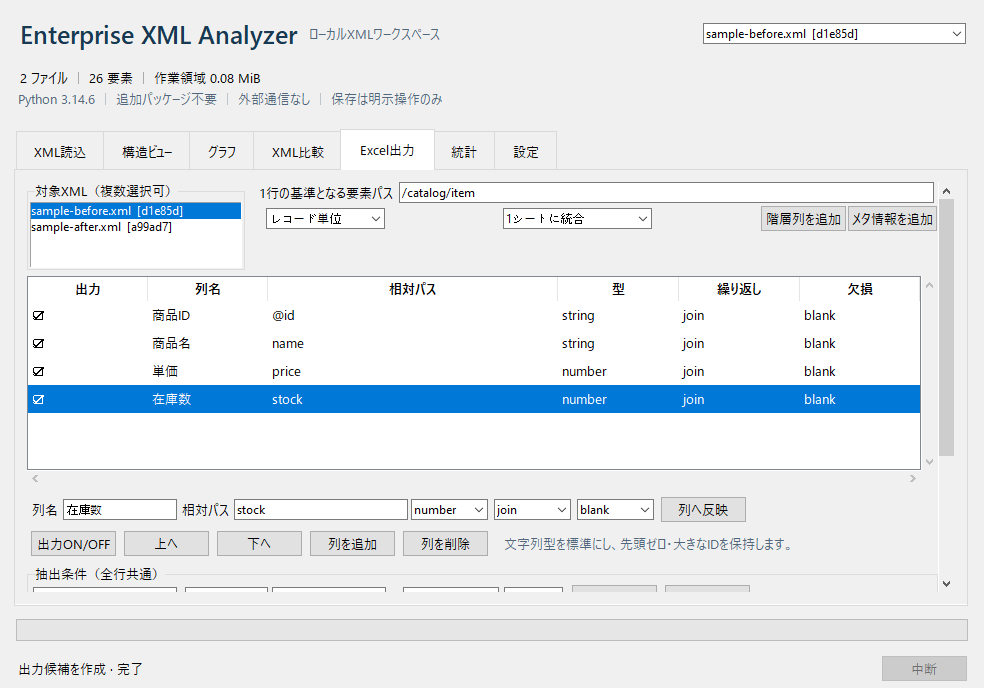
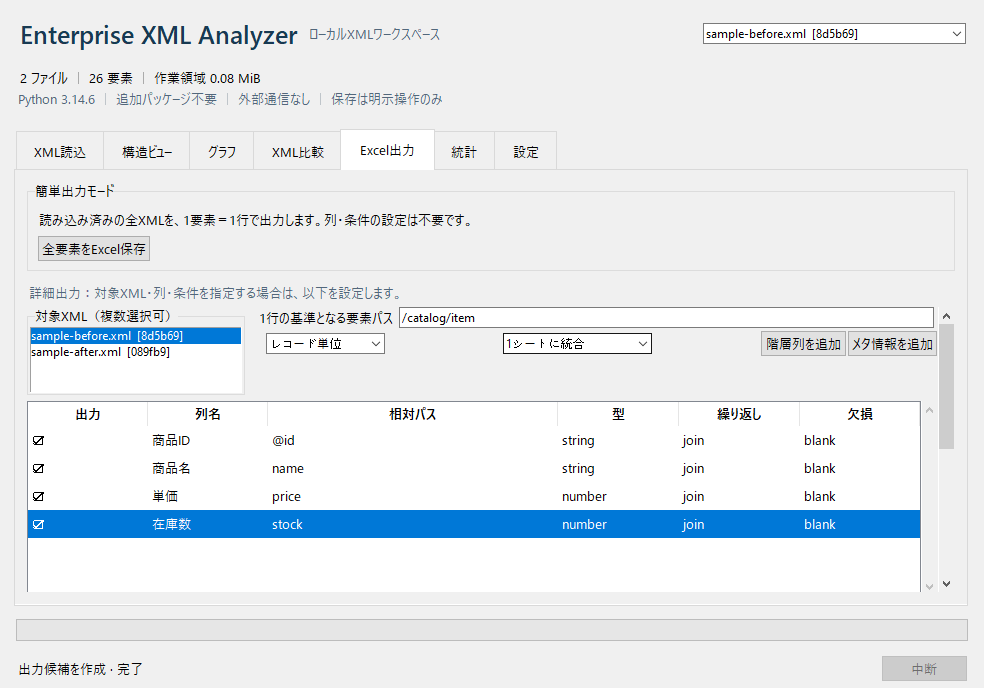
docs: document and verify simple export with current Windows screens

diff --git a/docs/python-user-guide/procedure-guide.html b/docs/python-user-guide/procedure-guide.html
@@ -89,12 +89,13 @@
     <section id="export" class="content-section"><div class="section-heading"><span class="section-number">09</span><div><p class="section-kicker">Excel Export</p><h2>必要な項目をExcelへ出力する</h2></div></div>
       <h3 id="simple-export">設定なしで全部出力する：簡単出力モード</h3>
       <ol class="numbered-steps"><li><div><strong>必要なXMLをすべて読み込みます。</strong><p>「XML読込」の一覧にある全ファイルが対象です。画面右上や詳細出力の選択状態、列や条件の設定には影響されません。</p></div></li><li><div><strong>「全要素をExcel保存」を押し、保存先を選びます。</strong><p>「XML読込」タブのボタン、または「Excel出力」タブ上部の「簡単出力モード」から実行できます。列やパスを設定する必要はありません。</p></div></li><li><div><strong>完了表示とExcelの内容を確認します。</strong><p>練習用XMLを2つとも読み込んだ場合は、親・空要素も含む全26要素を26行で保存します。詳細出力の「商品1件を1行」にする一覧とは行の単位が異なります。</p></div></li></ol>
-      <p>「全要素」シートには元ファイル、ファイルID、要素番号、親要素番号、階層、要素名、名前空間、要素パス、属性(JSON)、テキスト、分割番号の11列が並びます。ID・数値に見えるXML値も文字列として保持するため、先頭ゼロが残ります。階層の先頭は0です。</p>
+      <p>「全要素」シートには元ファイル、ファイルID、要素番号、親要素番号、階層、要素名、名前空間、要素パス、属性(JSON)、テキスト、分割番号の11列が並びます。ID・数値に見えるXML値も文字列として保持するため、先頭ゼロが残ります。階層の先頭は0です。要素番号は内部IDのため欠番がありますが、出力の欠落ではありません。</p>
       <p>テキストは要素の直下にある文字列・CDATAです。子要素の値はその子の行に出力します。コメントとPIは出力対象の「要素」に含めません。1セルに収まらない値は続きの行へ分割し、切り捨てません。同じファイルIDと要素番号を分割番号順に並べ、要素名・名前空間・パス・属性・テキストの各列を連結すると元の値になります。先頭5列は続きの行にも繰り返します。</p>
       <p class="small-note">1シートのデータ行上限で自動的にシートを分けます。合計200万行を超える場合は停止し、既存の保存先ファイルを保持します。対象を小さくする場合は、読み込み一覧から不要なXMLを外して再実行してください。</p>
+      <figure class="screenshot"><button class="shot-zoom" type="button" aria-label="簡単出力モードの画面を拡大"><img src="images/11-simple-export.png" alt="Excel出力タブ上部の簡単出力モード。全要素をExcel保存ボタンと、2ファイル26要素26行の完了表示。" width="984" height="688" loading="lazy"></button><figcaption>簡単出力の画面｜列を設定せずに、練習用XML2ファイルの全26要素を保存できました。</figcaption></figure>
       <h3>必要な列を選びたい場合：詳細出力</h3>
       <h3>① 「1行」の単位を選ぶ</h3><ol class="numbered-steps"><li><div><strong>「構造ビュー」へ戻り、右上を変更前XMLにします。</strong><p>検索後は <code>price</code> などが選ばれていることがあります。左のツリーから商品1件を表す <code>item</code> を選び直します。</p></div></li><li><div><strong>「この要素を出力の1行にする」を押します。</strong><p>「Excel出力」へ移動し、「1行の基準となる要素パス」が <code>/catalog/item</code> になります。1つの <code>item</code> がExcelの1行になるため、変更前XMLから3行を出力します。</p></div></li><li><div><strong>左上「対象XML」で変更前だけを選びます。</strong><p>初期状態では複数のXMLが選ばれていることがあります。この練習では <code>sample-before.xml</code> を通常クリックして1つだけ選択します。複数選択はCtrlキーで操作します。</p></div></li></ol>
-      <h3>② 列名と型を整える</h3><p>候補の列は自動で作られます。表の行をクリックして、その下の「列名」と型を変更し、<strong>必ず「列へ反映」</strong>を押します。次の4列を順に設定してください。</p>
+      <h3>② 列名と型を整える</h3><p>候補の列は自動で作られます。表の行をクリックして、その下の「列名」と型を変更し、<strong>必ず「列へ反映」</strong>を押します。次の4列を順に設定してください。編集欄が見えない場合は、右端の縦スクロールバーで下へ移動します。</p>
       <div class="table-wrap"><table><caption>練習で使う列設定</caption><thead><tr><th>相対パス</th><th>列名</th><th>型</th><th>理由</th></tr></thead><tbody><tr><td><code>@id</code></td><td>商品ID</td><td><code>string</code></td><td>001の先頭ゼロを残します。</td></tr><tr><td><code>name</code></td><td>商品名</td><td><code>string</code></td><td>文字列として保存します。</td></tr><tr><td><code>price</code></td><td>単価</td><td><code>number</code></td><td>Excelで集計できる数値として保存します。</td></tr><tr><td><code>stock</code></td><td>在庫数</td><td><code>number</code></td><td>Excelで集計できる数値として保存します。</td></tr></tbody></table></div>
       <figure class="screenshot"><button class="shot-zoom" type="button" aria-label="Excel出力の列設定画面を拡大"><img src="images/07-columns.png" alt="Excel出力タブ。対象XMLは変更前のみ、基準パスはcatalog/item。商品ID、商品名、単価、在庫数の4列が設定されている。" width="984" height="688" loading="lazy"></button><figcaption>画面7｜列を選ぶ → 下で編集する → 「列へ反映」。IDは文字列のままにします。</figcaption></figure>
       <p>不要な列は「出力ON/OFF」で外し、「上へ」「下へ」で順序を変えられます。繰り返しの初期値 <code>join</code> は複数値を1セルへ結合します。<code>first</code> は最初だけ、<code>rows</code> は行へ展開、<code>sheet</code> は子シートです。初回は初期値のままで構いません。</p>
@@ -116,7 +117,7 @@
 
     <section id="verification" class="content-section"><div class="section-heading"><span class="section-number">11</span><div><p class="section-kicker">Verification</p><h2>完了確認</h2></div></div>
       <p>練習が終わったら、次の項目を確認してください。チェック状態はこのページを再読込するとリセットされます。</p><div class="checklist-grid"><article><h3>画面・結果</h3><label><input type="checkbox"> EXEから起動でき、XMLを2ファイル読み込めた</label><label><input type="checkbox"> 構造ビューでitemとidを確認できた</label><label><input type="checkbox"> 比較で単価と在庫数の2箇所の変更を確認できた</label><label><input type="checkbox"> プレビューで変更前の3行を確認できた</label></article><article><h3>保存・終了</h3><label><input type="checkbox"> XLSXを保存し、実際に開いて3行と値を確認した</label><label><input type="checkbox"> 商品IDの001など先頭ゼロが残っている</label><label><input type="checkbox"> 必要な設定JSON・作業ファイルを保存した</label><label><input type="checkbox"> アプリを通常の手順で終了した</label></article></div>
-      <p class="small-note">アプリはWindows Server 2022で機能・GUIテスト36件と同梱EXEの起動を検証済みです。Windows版Microsoft Excelそのものでの修復警告・再保存は未確認のため、利用環境で必ず出力を確認してください。</p>
+      <p class="small-note">アプリはWindows Server 2022で機能・GUIテスト42件と同梱EXEの起動を検証済みです。Windows版Microsoft Excelそのものでの修復警告・再保存は未確認のため、利用環境で必ず出力を確認してください。</p>
     </section>
 
     <section id="troubleshooting" class="content-section"><div class="section-heading"><span class="section-number">12</span><div><p class="section-kicker">Troubleshooting</p><h2>困ったとき</h2></div></div>
@@ -126,7 +127,7 @@
         <details><summary>Windowsの警告や会社の管理機能で実行が止まる</summary><div><p>EXEは未署名です。セキュリティ機能を無効にせず、会社の承認手順に従ってください。管理者権限での実行を標準手順にはしません。</p></div></details>
         <details><summary>XMLを読み込めない／XML_PARSE・DTD・LIMITなどが表示される</summary><div><p>XMLの構文・文字コード・ファイルの読み取り権限を確認します。UTF-8／UTF-16に対応します。DTD・外部実体を含むXMLは受け付けません。深さ256や単一テキスト1Mi文字等の上限に達した場合は、元データの担当者へ相談してください。上限を避けるための無断編集はしないでください。</p></div></details>
         <details><summary>比較できない／変更が想定と違う／「曖昧」が出る</summary><div><p>AとBに異なるファイルを選んでいるか確認します。初回は「完全比較」で試します。キー属性の重複や不足、空白・順序・コメントのオプションでも結果が変わります。画面の設定と対象ファイル名を控え、実際の要素と詳細を確認してください。</p></div></details>
-        <details><summary>Excelの行が多すぎる／少ない／空欄になる</summary><div><p>対象XMLの選択、1行の基準パス、列の相対パス、出力ON/OFF、抽出条件を確認します。練習では変更前だけを選び、<code>/catalog/item</code> を基準にします。パスや列設定は対象XMLの構造に合っている必要があります。</p></div></details>
+        <details><summary>Excelの行が多すぎる／少ない／空欄になる</summary><div><p>簡単出力は全XMLの全要素を対象にするため、練習用XML2つでは26行です。商品1件を1行にしたい場合は詳細出力を使います。</p><p>対象XMLの選択、1行の基準パス、列の相対パス、出力ON/OFF、抽出条件を確認します。練習では変更前だけを選び、<code>/catalog/item</code> を基準にします。パスや列設定は対象XMLの構造に合っている必要があります。</p></div></details>
         <details><summary>列を編集したのに結果へ反映されない</summary><div><p>表の該当行を選んで編集し、「列へ反映」を押してから再度プレビューします。プレビューを実行する前の表示は自動更新されません。</p></div></details>
         <details><summary>「XLSX保存」など下のボタンが見えない</summary><div><p>ウインドウを最大化し、「Excel出力」の右端の縦スクロールバーを下へ移動します。横幅が足りない場合も最大化して操作してください。</p></div></details>
         <details><summary>保存できない／disk I/O error／処理が遅い</summary><div><p>空き容量、保存先への書き込み権限、出力ファイルをExcelで開いたままにしていないかを確認します。大きなXMLは一時作業領域も使用します。共有フォルダで失敗する場合は、許可されたローカルフォルダへの保存を試し、会社の担当者へ権限を確認してください。</p></div></details>

diff --git a/tests_python/test_engine.py b/tests_python/test_engine.py
@@ -62,7 +62,7 @@ class EngineTests(unittest.TestCase):
         text = "a" * 32766 + "😀" + "b" * 40000
         attribute = "😀" * 20000
         namespace = "u" * 40000
-        source = self.parse(f'<r xmlns:p="{namespace}"><p:n id="001" a="{attribute}">{text}</p:n><v>=1+1</v></r>')
+        source = self.parse(f'<r xmlns:p="{namespace}"><p:n id="001" a="{attribute}">{text[:32766]}<e/>{text[32766:]}</p:n><v>=1+1</v></r>')
         rows = list(all_element_rows(self.store))
         child = [dict(zip(r.headers, r.cells)) for r in rows if r.cells[5] == "p:n" or r.cells[2] == 2]
         self.assertGreater(len(child), 1)

diff --git a/docs/python-test-report.md b/docs/python-test-report.md
@@ -1,13 +1,13 @@
 # Python版の検証記録
 
-基準日: 2026年10月25日。旧Web版の件数・性能値は流用していません。
+更新日: 2026年10月27日。v2.0の性能値は2026年10月25日の記録です。旧Web版の件数・性能値は流用していません。
 
 ## 機能・画面・Windows配布
 
 | 環境 | 結果 |
 |---|---|
-| Windows Server 2022 x64 / CPython 3.14.6 / Tcl/Tk 8.6.15 | 機能とGUIの36件が成功。WindowsネイティブのWM_DROPFILESで日本語・空白パスを確認 |
-| macOS 27.0.1 arm64 / CPython 3.14.6 / Tcl/Tk 9.0.4 | 36件中35件成功、Windows専用ドロップ1件をスキップ |
+| Windows Server 2022 x64 / CPython 3.14.6 / Tcl/Tk 8.6.15 | 機能とGUIの42件が成功。WindowsネイティブのWM_DROPFILESで日本語・空白パスを確認 |
+| macOS 27.0.1 arm64 / CPython 3.14.6 / Tcl/Tk 9.0.4 | 42件中41件成功、Windows専用ドロップ1件をスキップ |
 | Windows同梱EXE | Python 3.14.6を同梱。日本語・空白を含むフォルダ、PATHをSystem32だけにした環境、無効なPYTHONHOME/PYTHONPATHの状態でも自己検証成功 |
 | 同梱EXE自己検証 | Tk画面の生成、背景スレッドで2ファイル読込、変更1件検出、XLSX4行生成、ツリー・グラフ・SVGを確認。通常のTCP接続を禁止した状態で実施 |
 | Windows PNG | Windows GDIによる画面とグラフのPNG保存に成功。生成画像を目視確認 |
@@ -59,3 +59,31 @@ py -3.14 build_windows.py
 処理エンジンを変更したときと手動実行時にWindows CIで大容量試験も行います。GUIだけの修正では同じ大容量試験を自動で繰り返しません。
 
 検証中、Macの空き容量低下によりSQLiteのdisk I/O errorが発生しました。空き容量の回復後、上記のMacテストは成功しています。空き容量エラー時にもGUIの通知処理を維持するテストを追加しました。古いWeb依存フォルダの削除コマンドは自動承認審査に拒否されたため実行していません。
+
+
+## v2.1.0 簡単出力モード
+
+2026年10月27日追加。42件の自動検証には、全要素出力について次の6件を含みます。Windowsは42件成功、MacはWindows専用ドロップ1件をスキップしています。
+
+- 複数XML・同名ファイル・文書順・親/空要素・繰り返し・Namespace・属性・直接テキスト/CDATAを保持すること。
+- 長いNamespace・属性・テキストをUTF-16単位で分割し、絵文字を壊さず、混在コンテンツの直下テキストも復元できること。シート自動分割と数式として実行されないこと。
+- 10051要素を出力し、ツリー表示1万件や100行プレビューの上限に制限されないこと。
+- XML未読込、中断、出力行の安全上限を扱い、失敗時に既存ファイルと一時ファイルの後片付けを確認すること。
+- 詳細出力の列が未設定・条件が不一致・対象が1ファイルだけの場合も、簡単出力では全XMLを出力し、詳細設定を変更しないこと。
+- 読込前に保存ダイアログを開かず、保存ダイアログのキャンセルでは処理を開始しないこと。
+
+同梱EXEの自己検証にもGUI経由の全要素10行保存を追加しました。Windowsの画面・ビルド・大容量試験は今回のPRから実行結果を確認できます。
+
+代表例のXLSXをopenpyxlで再読込し、1シート・7データ行・11列、数式/セルエラー/外部リンク/VBAが0件であることを確認しました。00120の文字列、先頭ゼロ付き属性、数式のように見える文字列、空要素、固定行・フィルター、ZIPと全XMLパートを検証しました。LibreOfficeで全シートをPDF化し、横3ページの全列を目視確認しています。元のXLSXは上書きしていません。記録は `validation/python-simple-export-validation.json` です。Windows版Microsoft Excelでの再オープンは未確認です。
+
+
+### Windowsでの簡単出力の実測
+
+[Windows Server 2022 / Python 3.14.6での試験](https://github.com/rsakamoto-0824/enterprise-xml-analyzer/actions/runs/40413316950)で、全件出力と同梱EXEを確認しました。生成・ZIP保存時間であり、XML読込やExcel起動の時間は含みません。共有CIでの単回測定で、時間・上限の保証ではありません。
+
+| 入力 | 出力要素数・行数 | 簡単出力 秒 | XLSXバイト数 |
+|---|---:|---:|---:|
+| 約100MiBのXMLを2ファイル | 52,724 | 6.54 | 3,158,831 |
+| 100万要素のXMLを1ファイル | 1,001,001 | 56.71 | 43,612,683 |
+
+1/10/100/500MiBと100万要素の既存試験も成功しています。今回の性能測定プロセス全体の累積Peak Working Setは最大64,827,392バイト（約61.8MiB）でした。簡単出力だけのメモリ量ではありません。詳細は `validation/python-simple-export-windows-performance.json`、同梱EXEの結果は `validation/python-simple-export-windows-selftest.json` に保存しています。

diff --git a/docs/python-windows.md b/docs/python-windows.md
@@ -8,7 +8,7 @@
 
 全要素をすぐ出力したい場合は、XML読込後に「全要素をExcel保存」を押し、保存先を指定してください。「XML読込」「Excel出力」の両タブから使えます。詳細設定を行わず、読み込み済みの全XMLを一括出力します。
 
-出力は原則1要素1行で、元ファイル・ファイルID・要素番号・親要素番号・階層（先頭は0）・要素名・名前空間・要素パス・属性(JSON)・テキスト・分割番号の11列です。親要素と空要素も含みます。テキストはその要素の直下にある文字列とCDATAを順に連結し、子要素の値は子要素の行に出力します。コメント・PIは要素として数えません。
+出力は原則1要素1行で、元ファイル・ファイルID・要素番号・親要素番号・階層（先頭は0）・要素名・名前空間・要素パス・属性(JSON)・テキスト・分割番号の11列です。親要素と空要素も含みます。テキストはその要素の直下にある文字列とCDATAを順に連結し、子要素の値は子要素の行に出力します。コメント・PIは要素として数えません。要素番号は解析時の内部IDで、テキスト等にもIDを割り当てるため欠番があります。欠番は出力の欠落ではありません。
 
 長い要素名・名前空間・パス・属性・テキストはExcelのセル上限で継続行へ分割します。同じファイルIDと要素番号の行を分割番号順に並べ、それぞれの列を連結すると元の値になります。先頭5列は各継続行にも繰り返します。保存完了時の要素数と行数が異なる場合は、この分割を確認してください。1シート1048575データ行で自動的に次のシートへ移り、継続行を含む合計200万行を超える場合は途中のファイルを残さず停止します。
 
